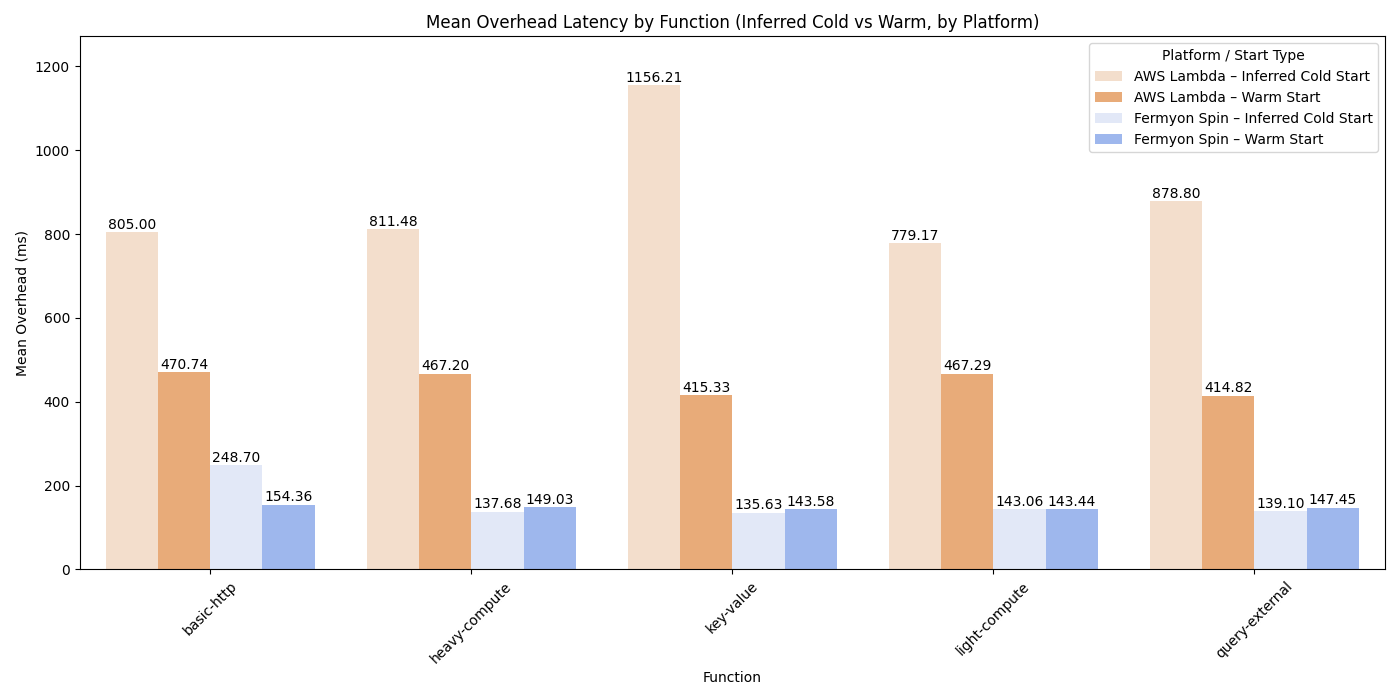
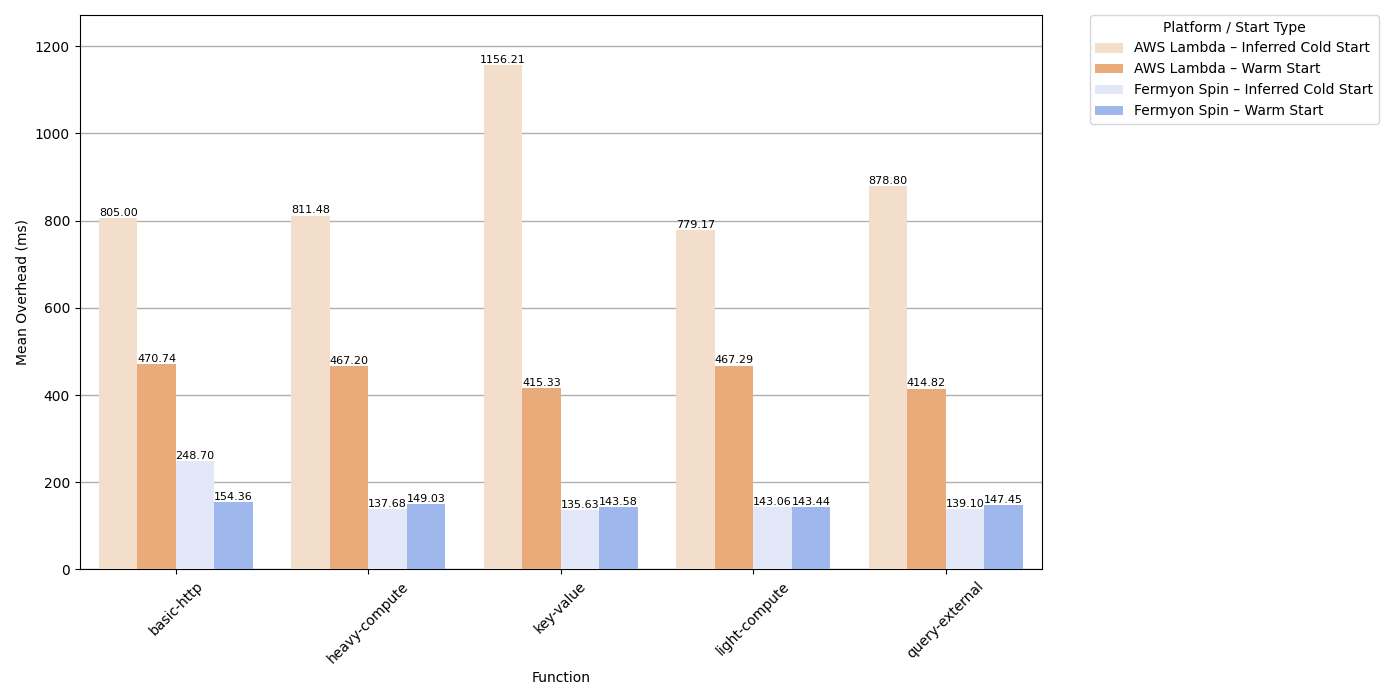
Update plots and csv summary script

diff --git a/h2/scripts/analyze_latency.py b/h2/scripts/analyze_latency.py
@@ -6,25 +6,13 @@ import seaborn as sns
 import numpy as np
 import os
 
-# Load cleaned data
-df = pd.read_csv("../data/processed/cleaned_data.csv", parse_dates=["timestamp"])
-df["cold_start"] = df["cold_start"].astype(bool)
+# ── Visualization 1: Grouped bar chart ──
 
-# Calculate execution/overhead ratio
-df["exec_overhead_ratio"] = df["execution_ms"] / df["overhead_ms"]
-
-# Group by platform, function name, and cold_start for overhead latency summary
-summary = (
-    df.groupby(["platform", "name", "cold_start"])["overhead_ms"]
-    .agg(mean="mean", median="median", std="std", count="count")
-    .reset_index()
-)
-
-# Remove rows with invalid mean values (like zero or negative) for a better plot
-summary = summary[summary["mean"] > 0]
+# Load precomputed summary for overhead latency
+overhead_summary = pd.read_csv("outputs/reports/overhead_latency_summary.csv")
 
 # Add 'platform_cold' column to summary for plotting
-summary["platform_cold"] = summary.apply(
+overhead_summary["platform_cold"] = overhead_summary.apply(
     lambda row: f"{row['platform']} – {'Inferred Cold Start' if row['cold_start'] else 'Warm Start'}", axis=1
 )
 
@@ -36,17 +24,19 @@ custom_palette = {
     "Fermyon Spin – Warm Start": "#91b2fa"
 }
 
-# ── Visualization 1: Grouped bar chart ──
 plt.figure(figsize=(14, 7))
 ax1 = sns.barplot(
-    data=summary,
+    data=overhead_summary,
     x="name",
     y="mean",
     hue="platform_cold",
     palette=custom_palette,
     hue_order=["AWS Lambda – Inferred Cold Start", "AWS Lambda – Warm Start", "Fermyon Spin – Inferred Cold Start", "Fermyon Spin – Warm Start"],
     ci=None,
-    edgecolor=None
+    edgecolor=None,
+    dodge=True,
+    zorder=3,
+    width=0.8
 )
 
 # Add value labels on top of the bars with proper formatting
@@ -59,36 +49,36 @@ for i, bar in enumerate(ax1.patches):
             f"{height:.2f}",  # Format with two decimal places
             ha="center",
             va="bottom",
-            fontsize=10
+            fontsize=8,
         )
 
-# Set y-axis limit to better visualize values
-ax1.set_ylim(0, summary["mean"].max() * 1.1)  # Increase max y-limit slightly
+ax1.set_ylim(0,overhead_summary["mean"].max() * 1.1) # Set y-axis limit to better visualize values
 
-ax1.set_title("Mean Overhead Latency by Function (Inferred Cold vs Warm, by Platform)")
 ax1.set_ylabel("Mean Overhead (ms)")
 ax1.set_xlabel("Function")
 ax1.set_xticklabels(ax1.get_xticklabels(), rotation=45)
-ax1.legend(title="Platform / Start Type")
+
+ax1.legend(
+    title="Platform / Start Type",
+    loc='upper left',  # Location of the legend
+    bbox_to_anchor=(1.05, 1),  # Position the legend outside the plot
+    borderaxespad=0.,  # Padding between legend and plot
+    fontsize=10
+)
+
+ax1.grid(True, axis='y', linestyle='-', linewidth=1, zorder=1 )
+
 plt.tight_layout()
 plt.savefig("outputs/figures/mean_overhead_platform_coldwarm.png")
 plt.close()
 print("Saved: mean_overhead_platform_coldwarm.png")
 
 # ── Visualization 2: Cold start penalty plot ──
-penalty = (
-    summary[summary["cold_start"] == True].merge(
-        summary[summary["cold_start"] == False],
-        on=["platform", "name"],
-        suffixes=("_cold", "_warm")
-    )
-)
 
-penalty["cold_start_penalty_%"] = (
-    (penalty["mean_cold"] - penalty["mean_warm"]) / penalty["mean_warm"] * 100
-).round(2)
+# Load precomputed cold start penalty summary
+penalty = pd.read_csv("outputs/reports/cold_start_penalty_summary.csv")
 
-# Update platform names for the labels
+# Ensure the platform column is consistent for plotting
 penalty["platform"] = penalty["platform"].replace({
     "AWS Lambda": "AWS Lambda",
     "Fermyon Spin": "Fermyon Spin"
@@ -107,7 +97,9 @@ ax2 = sns.barplot(
     y="cold_start_penalty_%",
     hue="platform",
     palette=custom_palette_penalty,
-    errorbar=None
+    errorbar=None,
+    dodge=True,
+    zorder=3
 )
 
 # Add value labels on top of the bars
@@ -125,12 +117,22 @@ for container in ax2.containers:
             fontsize=9
         )
 
-# Set plot title and labels
-ax2.set_title("Inferred Cold Start Penalty (%) by Function and Platform")
 ax2.set_ylabel("Inferred Cold Start Penalty (%)")
 ax2.set_xlabel("Function")
 ax2.set_xticklabels(ax2.get_xticklabels(), rotation=45)
-ax2.legend(title="Platform", labels=["AWS Lambda", "Fermyon Spin"])
+ax2.legend(
+    title="Platform",
+    loc='upper left',
+    bbox_to_anchor=(1.05, 1),
+    borderaxespad=0.,
+    fontsize=10
+)
+ax2.grid(True, axis='y', linestyle='-', linewidth=1, zorder=1 )
+
+# Manually set y-axis limits to add padding between the highest/lowest values and the plot margins
+padding = 5
+ymin, ymax = ax2.get_ylim()
+ax2.set_ylim(ymin - padding, ymax + padding)
 
 plt.tight_layout()
 plt.savefig("outputs/figures/cold_start_penalty_labeled.png")
@@ -139,6 +141,9 @@ print("Saved: cold_start_penalty_labeled.png")
 
 # ── Visualization 3: Dot Plot for Overhead Latency ──
 plt.figure(figsize=(14, 7))
+
+df = pd.read_csv("../data/processed/cleaned_data.csv", parse_dates=["timestamp"])
+df["cold_start"] = df["cold_start"].astype(bool)
 
 # Update platform_cold label for consistency with bar chart
 df["platform_cold"] = df.apply(
@@ -178,13 +183,18 @@ ax3 = sns.stripplot(
     hue_order=hue_order 
 )
 
-# Set plot title and labels
-ax3.set_title("Overhead Latency Distribution by Function and Platform (Dot Plot)")
+# Set plot labels
 ax3.set_xlabel("Overhead Latency (ms)")
 ax3.set_ylabel("Function")
 ax3.set_xticklabels(ax3.get_xticklabels(), rotation=45)
 
-ax3.legend(title="Platform / Start Type") 
+ax3.legend(
+    title="Platform / Start Type",
+    loc='upper left',
+    bbox_to_anchor=(1.05, 1),
+    borderaxespad=0.,
+    fontsize=10
+)
 
 # Tight layout to prevent overlapping
 plt.tight_layout()
@@ -196,7 +206,8 @@ print("Saved: overhead_latency_dot_plot.png")
 
 # ── Visualization 4: Dot plot for Total Execution Time ──
 
-# Add 'platform_cold' column to df for plotting
+df = pd.read_csv("../data/processed/cleaned_data.csv", parse_dates=["timestamp"])
+df["cold_start"] = df["cold_start"].astype(bool)
 df["platform_cold"] = df.apply(
     lambda row: f"{row['platform']} – {'Inferred Cold Start' if row['cold_start'] else 'Warm Start'}", axis=1
 )
@@ -235,13 +246,18 @@ ax4 = sns.stripplot(
     hue_order=hue_order 
 )
 
-# Set plot title and labels
-ax4.set_title("Total Execution Time by Function and Platform")
+# Set plot labels
 ax4.set_xlabel("Total Execution Time (ms)")
 ax4.set_ylabel("Function")
 ax4.set_xticklabels(ax4.get_xticklabels(), rotation=45)
 
-ax4.legend(title="Platform / Start Type") 
+ax4.legend(
+    title="Platform / Start Type",
+    loc='upper left',
+    bbox_to_anchor=(1.05, 1),
+    borderaxespad=0.,
+    fontsize=10
+)
 
 # Tight layout to prevent overlapping
 plt.tight_layout()
@@ -289,8 +305,7 @@ ax = sns.boxplot(
     #flierprops=dict(marker="o", color="white", markersize=0)  # Hide outliers
 )
 
-# Set plot title and labels
-ax.set_title("Overhead Latency Distribution by Function (Boxplot)")
+# Set plot labels
 ax.set_ylabel("Overhead Latency (ms)")
 ax.set_xlabel("Function")
 ax.set_xticklabels(ax.get_xticklabels(), rotation=45)
@@ -303,3 +318,71 @@ plt.tight_layout()
 plt.savefig("outputs/figures/boxplot_overhead_latency_by_function.png")
 plt.close()
 print("Saved: outputs/figures/boxplot_overhead_latency_by_function.png")
+
+# ── Visualization 6: Total Execution Time by Function and Platform ──
+
+# Load total performance summary csv file
+total_exec_df = pd.read_csv("outputs/reports/total_performance_summary.csv")
+total_exec_df["platform_cold"] = total_exec_df.apply(
+    lambda row: f"{row['platform']} – {'Inferred Cold Start' if row['cold_start'] else 'Warm Start'}", axis=1
+)
+
+# Custom color palette
+custom_palette_exec = {
+    "AWS Lambda – Inferred Cold Start": "#faddc5",
+    "AWS Lambda – Warm Start": "#faa966",
+    "Fermyon Spin – Inferred Cold Start": "#dfe7fa",
+    "Fermyon Spin – Warm Start": "#91b2fa"
+}
+
+hue_order = [
+    "AWS Lambda – Inferred Cold Start",
+    "AWS Lambda – Warm Start",
+    "Fermyon Spin – Inferred Cold Start",
+    "Fermyon Spin – Warm Start"
+]
+
+plt.figure(figsize=(14, 7))
+ax6 = sns.barplot(
+    data=total_exec_df,
+    x="name",
+    y="mean_total",
+    hue="platform_cold",
+    palette=custom_palette_exec,
+    hue_order=hue_order,
+    ci=None,
+    edgecolor=None,
+    dodge=True,
+    zorder=3,
+    width=0.8
+)
+
+# Add value labels
+for bar in ax6.patches:
+    height = bar.get_height()
+    if height > 0:
+        ax6.text(
+            bar.get_x() + bar.get_width() / 2,
+            height + 5,
+            f"{height:.2f}",
+            ha="center",
+            va="bottom",
+            fontsize=6
+        )
+
+ax6.set_ylabel("Mean Total Execution Time (ms)")
+ax6.set_xlabel("Function")
+ax6.set_xticklabels(ax6.get_xticklabels(), rotation=45)
+ax6.legend(
+    title="Platform / Start Type",
+    loc='upper left',
+    bbox_to_anchor=(1.05, 1),
+    borderaxespad=0.,
+    fontsize=10
+)
+ax6.grid(True, axis='y', linestyle='-', linewidth=1, zorder=1)
+
+plt.tight_layout()
+plt.savefig("outputs/figures/mean_total_execution_time_by_platform.png")
+plt.close()
+print("Saved: mean_total_execution_time_by_platform.png")

diff --git a/h2/scripts/generate_csv_summaries.py b/h2/scripts/generate_csv_summaries.py
@@ -1,0 +1,42 @@
+# Use this command to run this script in the terminal: python scripts/generate_csv_summaries.py
+import pandas as pd
+import os
+
+df = pd.read_csv("../data/processed/cleaned_data.csv", parse_dates=["timestamp"])
+df["cold_start"] = df["cold_start"].astype(bool)
+
+# ── Overhead latency summary ──
+summary = (
+    df.groupby(["platform", "name", "cold_start"])["overhead_ms"]
+    .agg(mean="mean", median="median", std="std", count="count")
+    .reset_index()
+)
+os.makedirs("outputs/reports", exist_ok=True)
+summary.to_csv("outputs/reports/overhead_latency_summary.csv", index=False)
+print("Saved: overhead_latency_summary.csv")
+
+# ── Cold start penalty summary ──
+cold = summary[summary["cold_start"] == True].copy()
+warm = summary[summary["cold_start"] == False].copy()
+penalty = pd.merge(cold, warm, on=["platform", "name"], suffixes=("_cold", "_warm"))
+penalty["cold_start_penalty_%"] = (
+    (penalty["mean_cold"] - penalty["mean_warm"]) / penalty["mean_warm"] * 100
+).round(2)
+penalty.to_csv("outputs/reports/cold_start_penalty_summary.csv", index=False)
+print("Saved: cold_start_penalty_summary.csv")
+
+# ── Total performance summary ──
+df["exec_overhead_ratio"] = df["execution_ms"] / df["overhead_ms"]
+total_perf = (
+    df.groupby(["platform", "name", "cold_start"])
+    .agg(
+        mean_total=("total_ms", "mean"),
+        std_total=("total_ms", "std"),
+        mean_ratio=("exec_overhead_ratio", "mean"),
+        std_ratio=("exec_overhead_ratio", "std"),
+        count=("total_ms", "count")
+    )
+    .reset_index()
+)
+total_perf.to_csv("outputs/reports/total_performance_summary.csv", index=False)
+print("Saved: total_performance_summary.csv")
